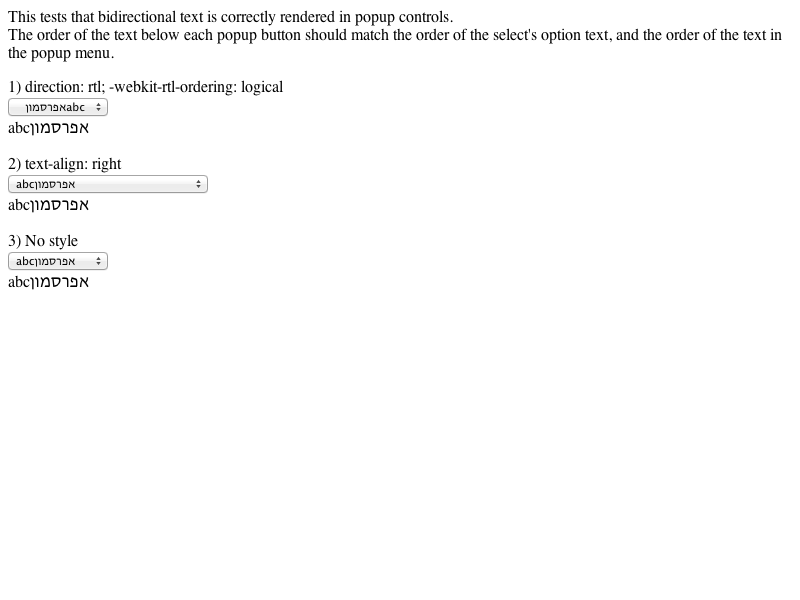
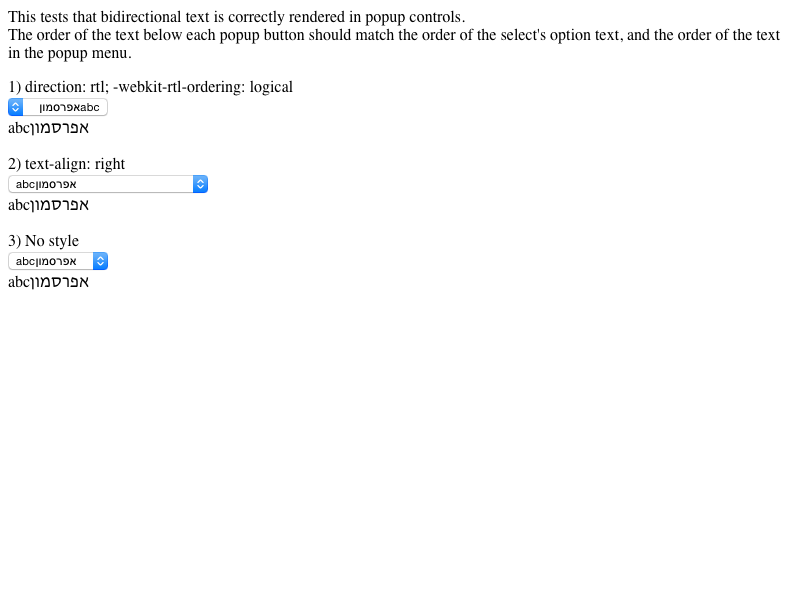
RTL native <select> buttons should have arrows on left https://bugs.webkit.org/show_bug.cgi?id=157055 <rdar://problem/25894428>
Source/WebCore:

Reviewed by Myles Maxfield.

If the text direction is right-to-left, the select popup
buttons should have the arrows on the left side.

Test: fast/forms/select-writing-direction-natural.html

* rendering/RenderThemeMac.h:
* rendering/RenderThemeMac.mm:
(WebCore::RenderThemeMac::popupButtonPadding): Takes a direction parameter.
(WebCore::RenderThemeMac::popupInternalPaddingBox): Checks the direction for the padding.
(WebCore::RenderThemeMac::setPopupButtonCellState): Tell the button to put the
arrows on the correct side.
(WebCore::RenderThemeMac::popupButton): Deleted an unnecessary comment.

LayoutTests:

Reviewed by Myles Maxfield.

* fast/forms/select-writing-direction-natural.html: Removed some incorrect
text in the test.
* platform/ios-simulator/fast/forms/select-writing-direction-natural-expected.txt:
* platform/mac/fast/forms/select-writing-direction-natural-expected.png:
* platform/mac/fast/forms/select-writing-direction-natural-expected.txt:
* platform/mac/fast/text/international/bidi-menulist-expected.png:
* platform/mac/fast/text/international/bidi-menulist-expected.txt:
* platform/mac/fast/text/international/pop-up-button-text-alignment-and-direction-expected.png:
* platform/mac/fast/text/international/pop-up-button-text-alignment-and-direction-expected.txt:

git-svn-id: https://svn.webkit.org/repository/webkit/trunk@200118 268f45cc-cd09-0410-ab3c-d52691b4dbfc

diff --git a/LayoutTests/fast/forms/select-writing-direction-natural.html b/LayoutTests/fast/forms/select-writing-direction-natural.html
@@ -10,9 +10,6 @@
         Test for <i><a href="http://bugs.webkit.org/show_bug.cgi?id=13775">http://bugs.webkit.org/show_bug.cgi?id=13775</a>
         REGRESSION: Popup button text should use "natural" directionality to match the items in the popup menu</i>.
     </p>
-    <p>
-        In all of the popup buttons below, the letter A should be on the left and the letter &#x05d0; should be on the right.
-    </p>
     <div style="direction: ltr;">
         <div style="text-align: left;">
             <select><option>&#x05d0;A</option></select>

diff --git a/Source/WebCore/rendering/RenderThemeMac.mm b/Source/WebCore/rendering/RenderThemeMac.mm
@@ -896,15 +896,21 @@ const IntSize* RenderThemeMac::popupButtonSizes() const
     return sizes;
 }
 
-const int* RenderThemeMac::popupButtonPadding(NSControlSize size) const
+const int* RenderThemeMac::popupButtonPadding(NSControlSize size, bool isRTL) const
 {
-    static const int padding[3][4] =
+    static const int paddingLTR[3][4] =
     {
         { 2, 26, 3, 8 },
         { 2, 23, 3, 8 },
         { 2, 22, 3, 10 }
     };
-    return padding[size];
+    static const int paddingRTL[3][4] =
+    {
+        { 2, 8, 3, 26 },
+        { 2, 8, 3, 23 },
+        { 2, 8, 3, 22 }
+    };
+    return isRTL ? paddingRTL[size] : paddingLTR[size];
 }
 
 bool RenderThemeMac::paintMenuList(const RenderObject& renderer, const PaintInfo& paintInfo, const FloatRect& rect)
@@ -1368,10 +1374,11 @@ void RenderThemeMac::adjustMenuListStyle(StyleResolver& styleResolver, RenderSty
 LengthBox RenderThemeMac::popupInternalPaddingBox(const RenderStyle& style) const
 {
     if (style.appearance() == MenulistPart) {
-        return { static_cast<int>(popupButtonPadding(controlSizeForFont(style))[topPadding] * style.effectiveZoom()),
-            static_cast<int>(popupButtonPadding(controlSizeForFont(style))[rightPadding] * style.effectiveZoom()),
-            static_cast<int>(popupButtonPadding(controlSizeForFont(style))[bottomPadding] * style.effectiveZoom()),
-            static_cast<int>(popupButtonPadding(controlSizeForFont(style))[leftPadding] * style.effectiveZoom()) };
+        const int* padding = popupButtonPadding(controlSizeForFont(style), style.direction() == RTL);
+        return { static_cast<int>(padding[topPadding] * style.effectiveZoom()),
+            static_cast<int>(padding[rightPadding] * style.effectiveZoom()),
+            static_cast<int>(padding[bottomPadding] * style.effectiveZoom()),
+            static_cast<int>(padding[leftPadding] * style.effectiveZoom()) };
     }
 
     if (style.appearance() == MenulistButtonPart) {
@@ -1422,6 +1429,8 @@ void RenderThemeMac::setPopupButtonCellState(const RenderObject& o, const IntSiz
 
     // Set the control size based off the rectangle we're painting into.
     setControlSize(popupButton, popupButtonSizes(), buttonSize, o.style().effectiveZoom());
+
+    popupButton.userInterfaceLayoutDirection = o.style().direction() == LTR ? NSUserInterfaceLayoutDirectionLeftToRight : NSUserInterfaceLayoutDirectionRightToLeft;
 
     // Update the various states we respond to.
     updateCheckedState(popupButton, o);
@@ -1957,10 +1966,6 @@ NSPopUpButtonCell* RenderThemeMac::popupButton() const
         m_popupButton = adoptNS([[NSPopUpButtonCell alloc] initTextCell:@"" pullsDown:NO]);
         [m_popupButton.get() setUsesItemFromMenu:NO];
         [m_popupButton.get() setFocusRingType:NSFocusRingTypeExterior];
-        // We don't want the app's UI layout direction to affect the appearance of popup buttons in
-        // web content, which has its own layout direction.
-        // FIXME: Make this depend on the directionality of the select element, once the rest of the
-        // rendering code can account for the popup arrows appearing on the other side.
         [m_popupButton setUserInterfaceLayoutDirection:NSUserInterfaceLayoutDirectionLeftToRight];
     }
 

diff --git a/Source/WebCore/rendering/RenderThemeMac.h b/Source/WebCore/rendering/RenderThemeMac.h
@@ -192,7 +192,7 @@ private:
     void setPopupButtonCellState(const RenderObject&, const IntSize&);
     const IntSize* popupButtonSizes() const;
     const int* popupButtonMargins() const;
-    const int* popupButtonPadding(NSControlSize) const;
+    const int* popupButtonPadding(NSControlSize, bool isRTL) const;
     void paintMenuListButtonGradients(const RenderObject&, const PaintInfo&, const IntRect&);
     const IntSize* menuListSizes() const;
 
